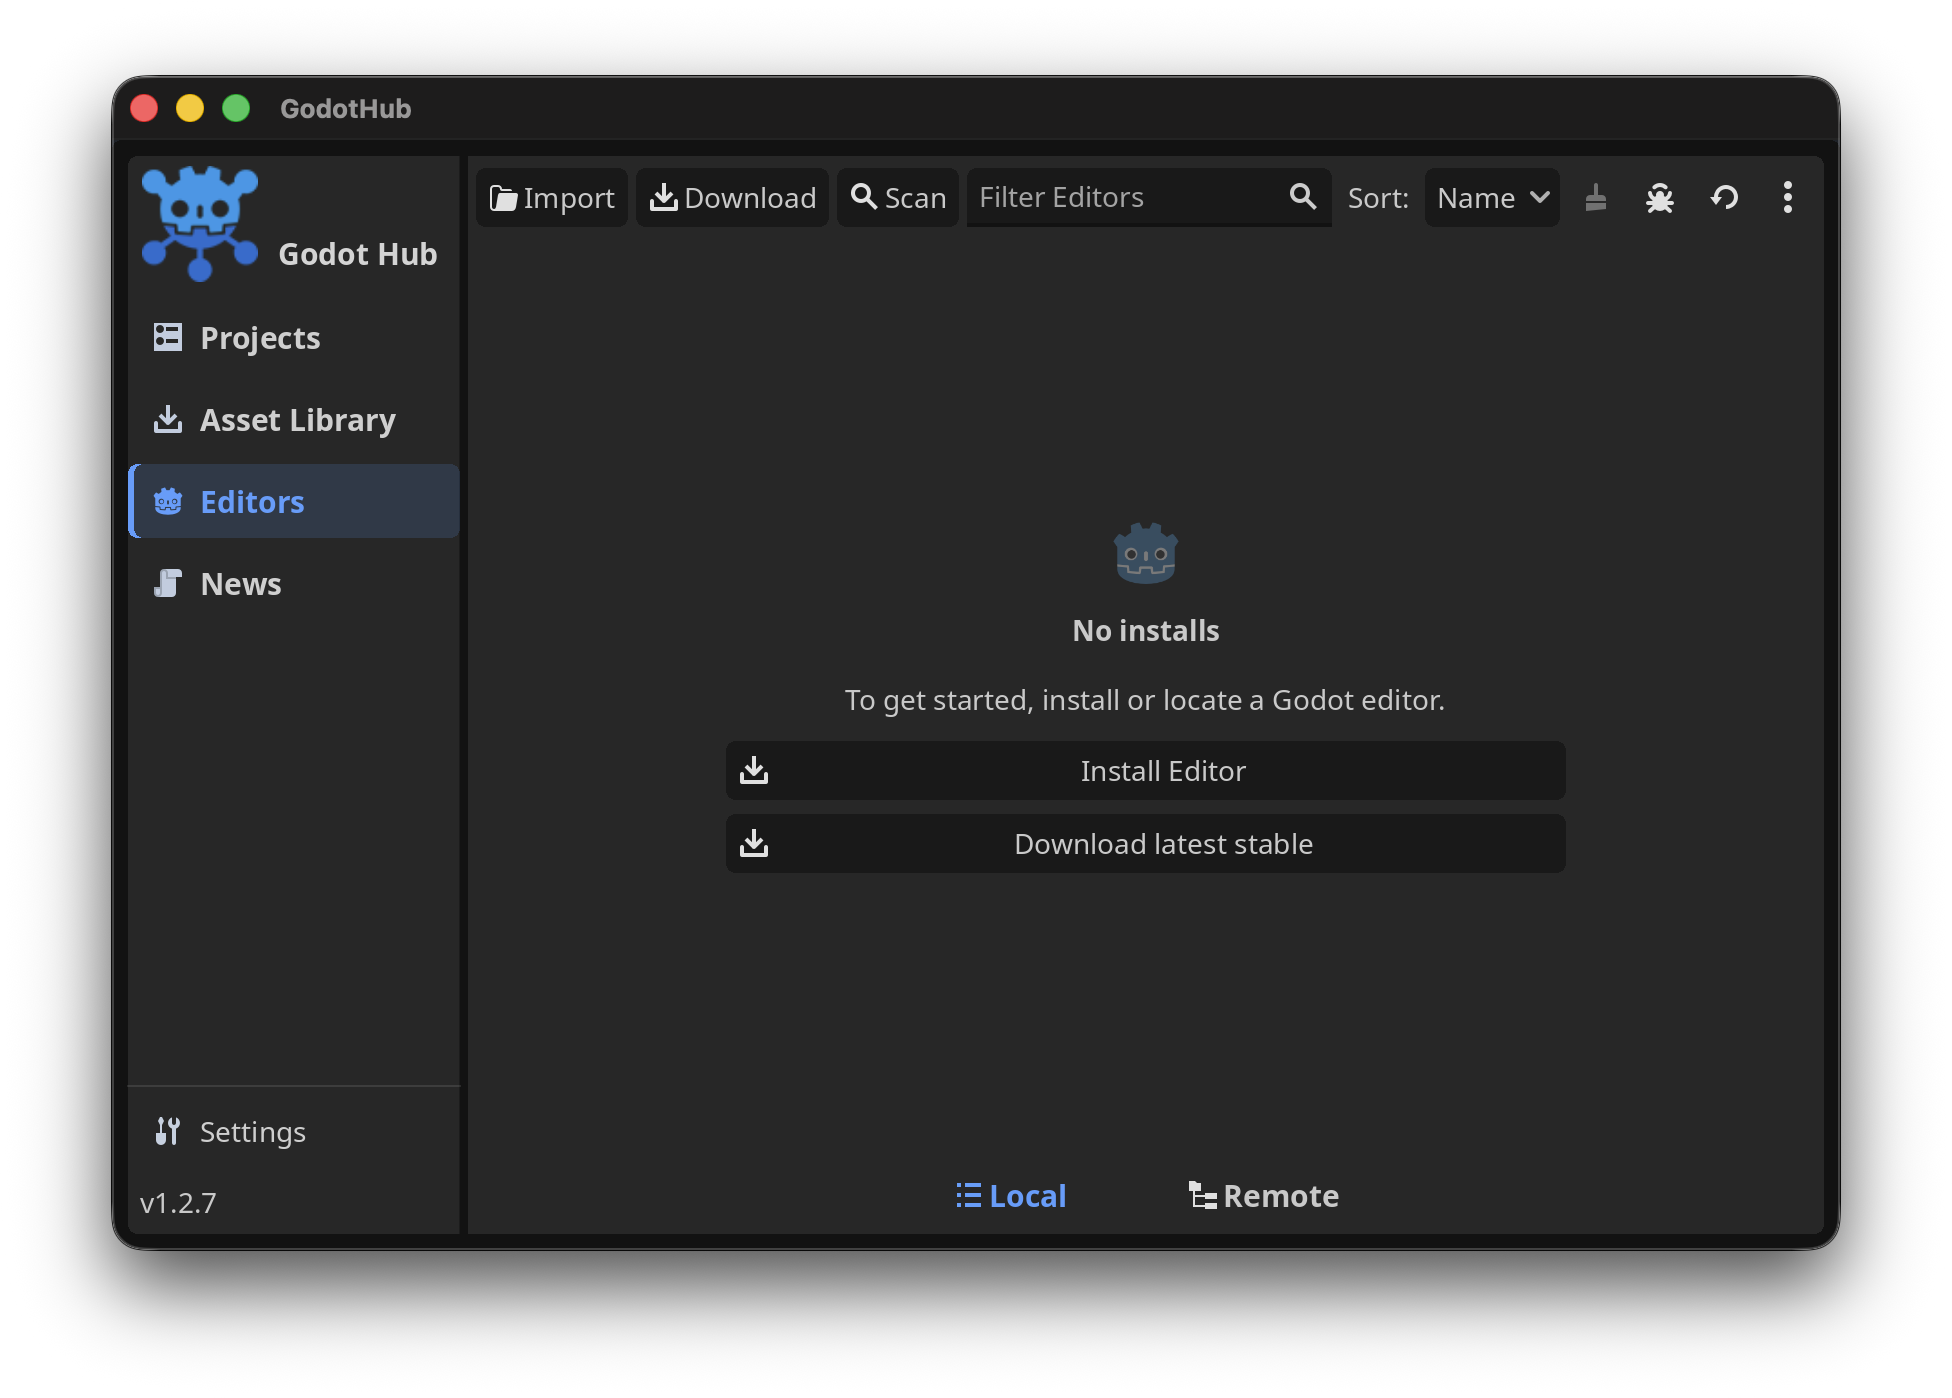
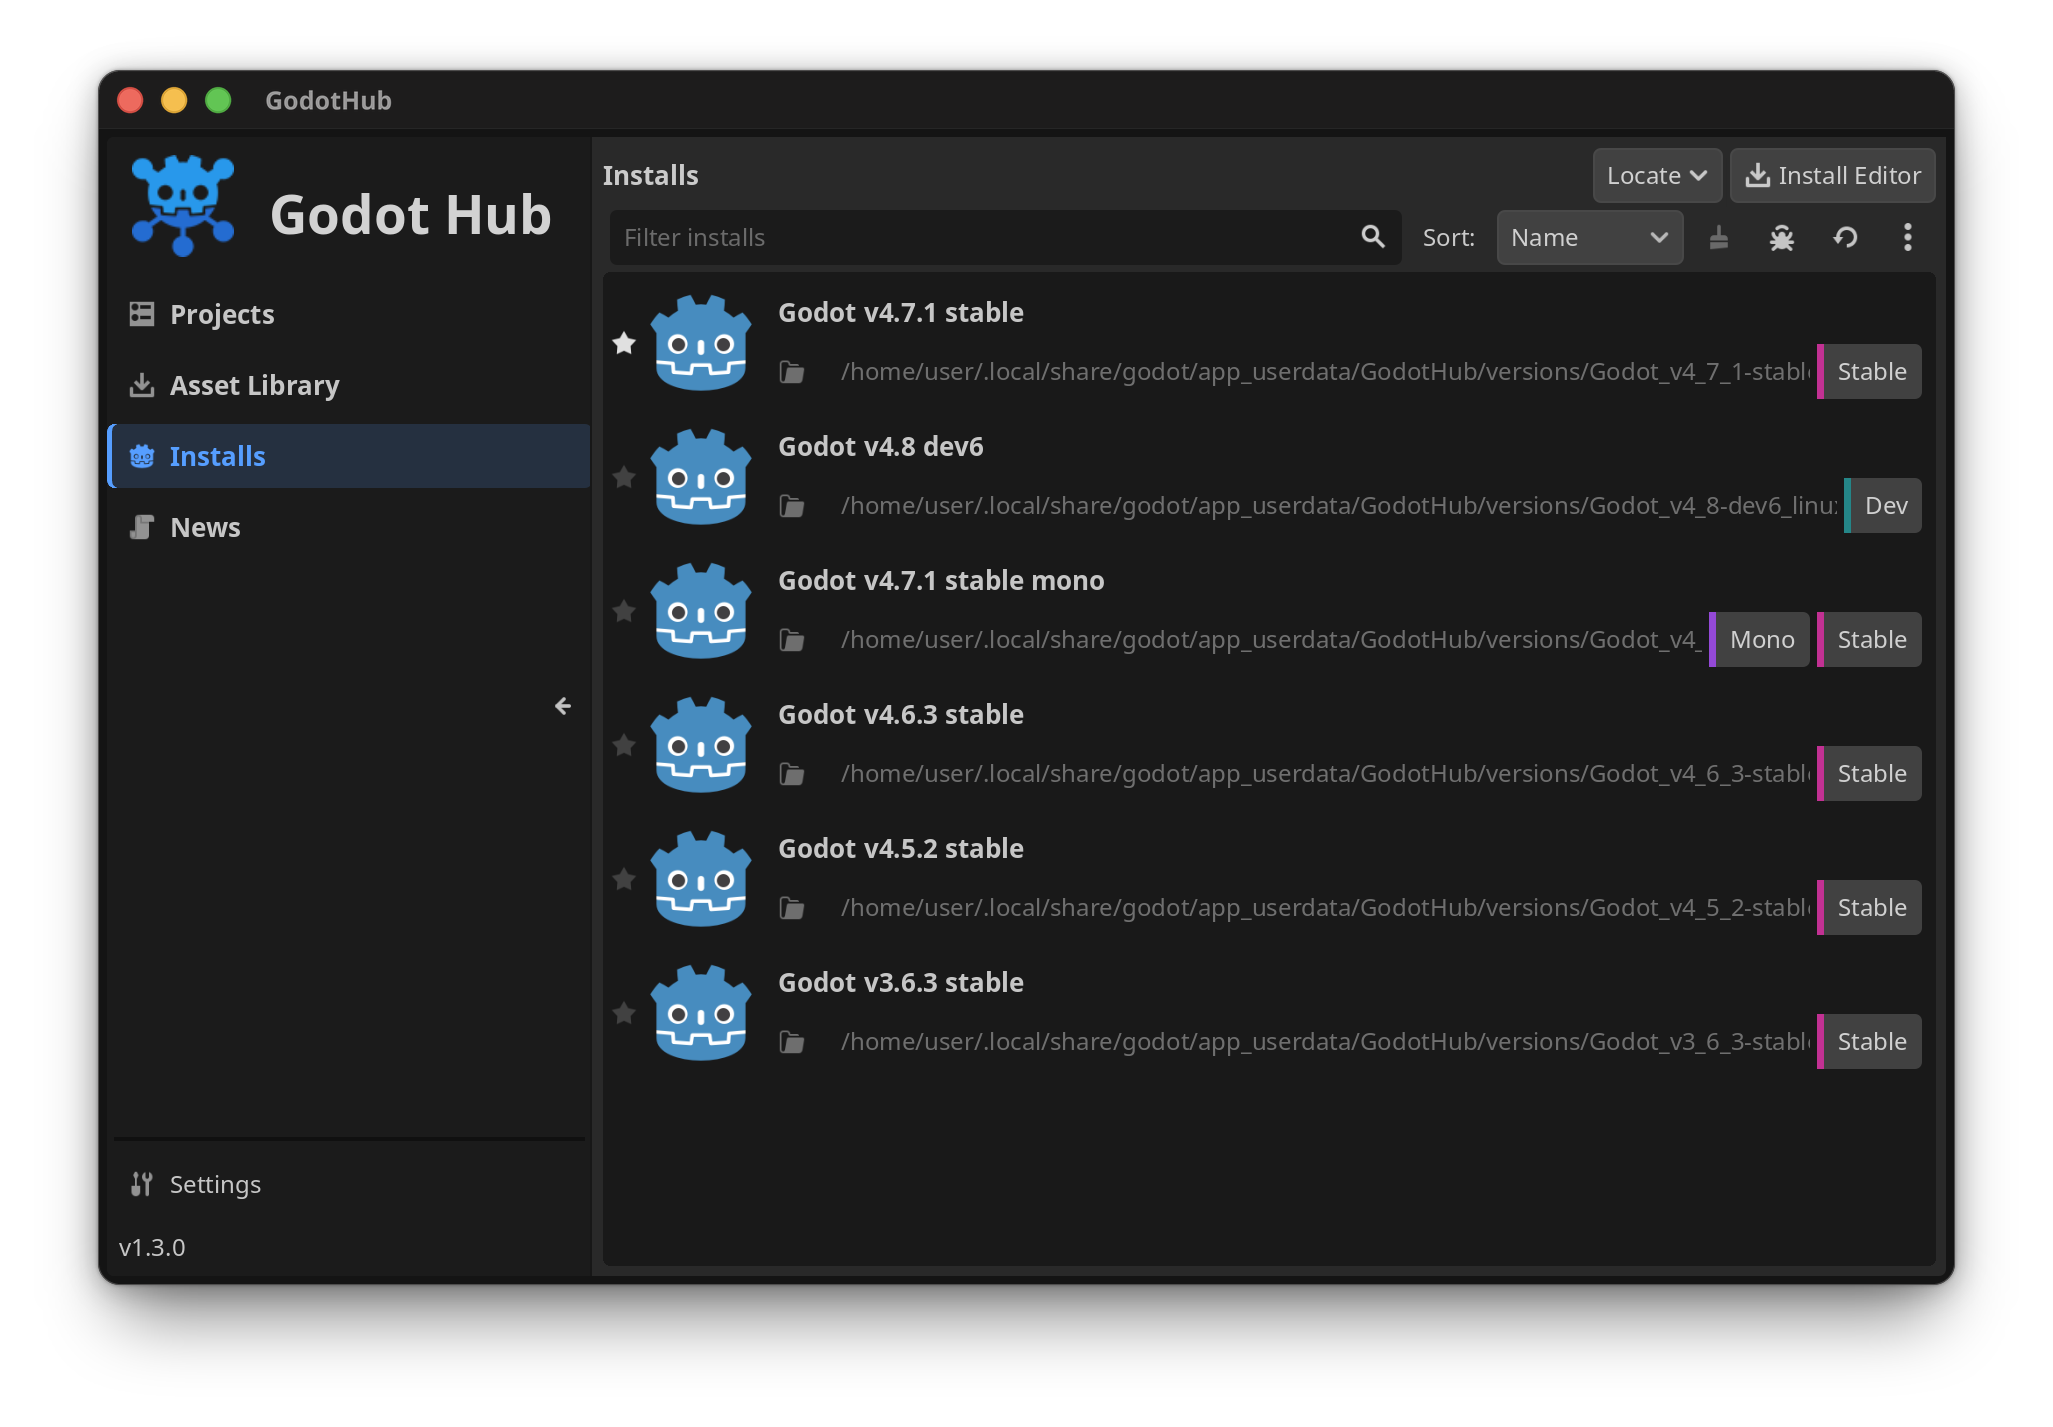
Update README screenshots for v1.3.0
New captures of the Projects, Installs and News pages, plus the Install
Editor window and its export templates step.

diff --git a/README.md b/README.md
@@ -81,6 +81,12 @@ Download the latest stable Godot release in one click, keep older or preview ver
 
 ![Godot Hub editor manager](.github/assets/screenshot2.png)
 
+Browse official releases, pre-releases, and the archive, pick the Standard or .NET build, and download only the export templates you need.
+
+![Godot Hub editor installer](.github/assets/screenshot4.png)
+
+![Godot Hub export template picker](.github/assets/screenshot5.png)
+
 ### Find every project quickly
 
 Create, clone, import, scan, search, and sort projects from one screen. You can also drop a `project.godot` file or project folder onto Godot Hub to import it.
